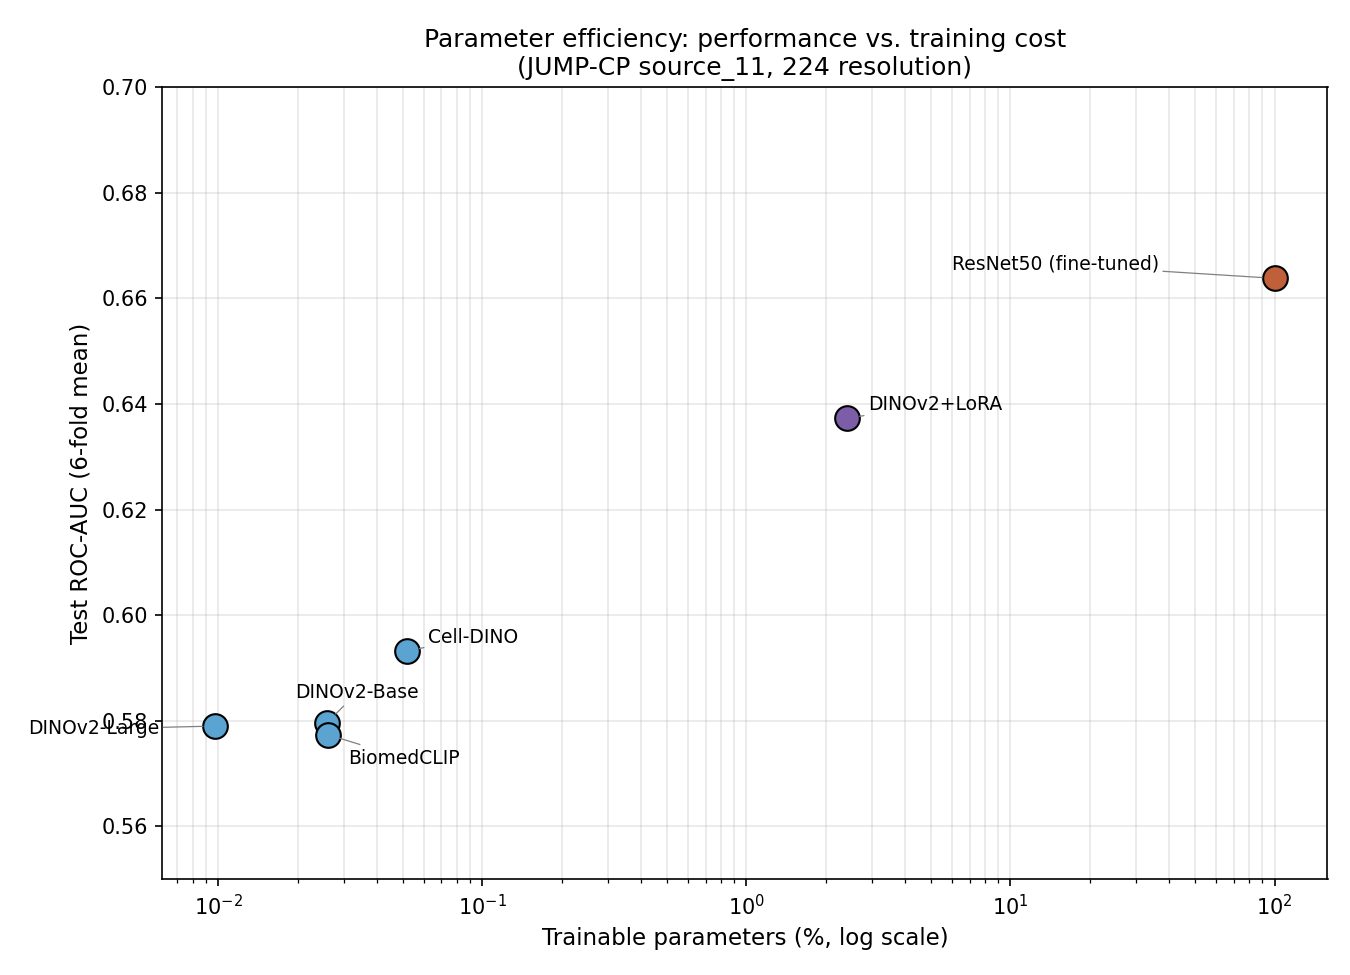
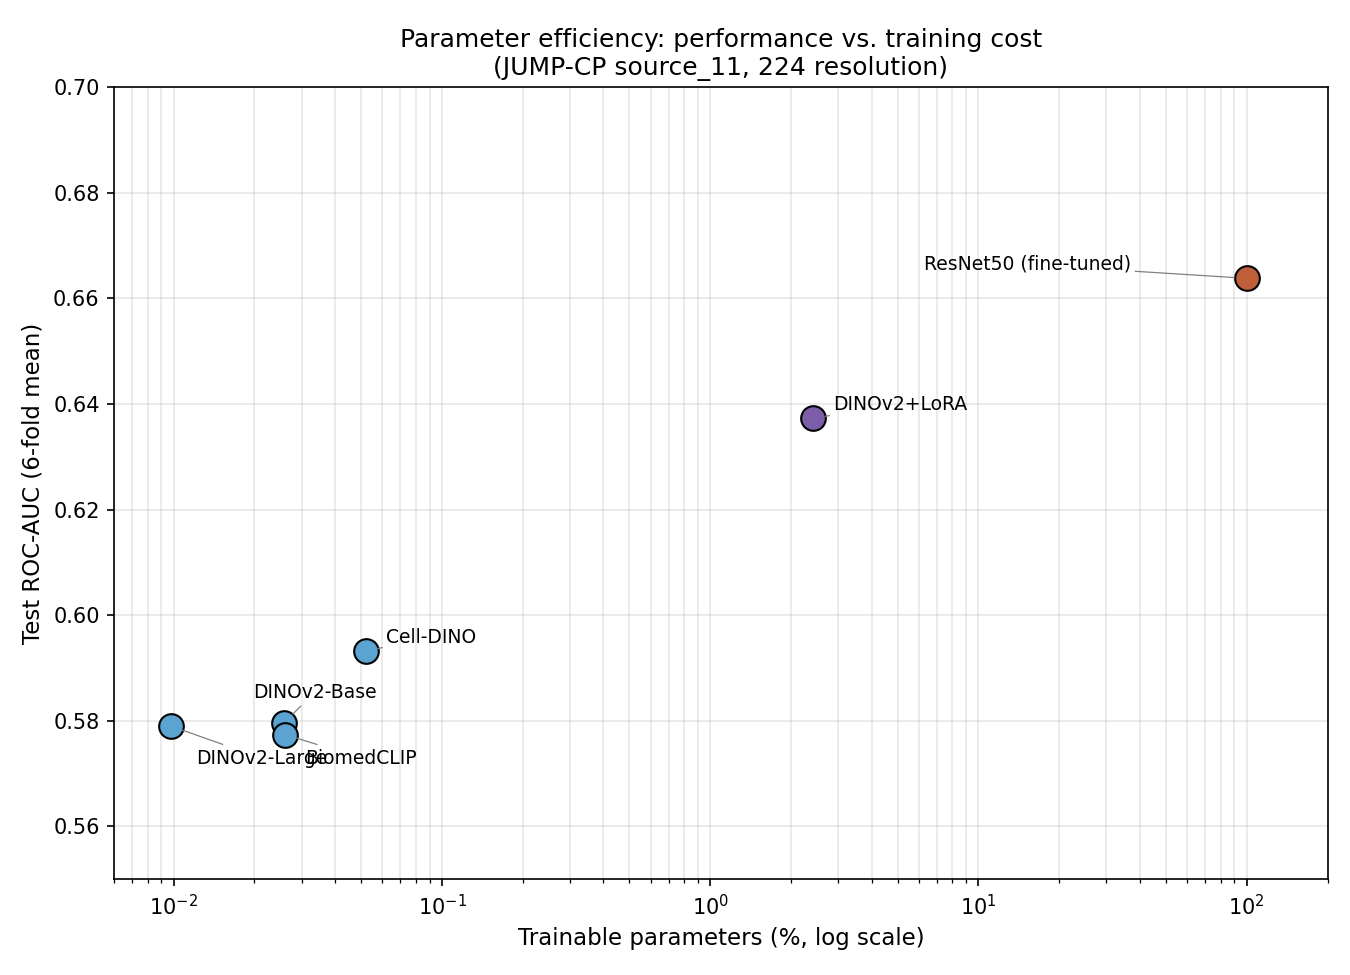
Fix DINOv2-Large label clipping past the plot edge in Fig H Pareto plot

diff --git a/make_pr_calibration_pareto.py b/make_pr_calibration_pareto.py
@@ -143,7 +143,7 @@ def head_params(dim, n_classes=29):
 PARETO = [
     ("Cell-DINO",             0.5932, 100 * head_params(384)  / 21_500_000, "frozen",    (10, 4)),
     ("DINOv2-Base",           0.5796, 100 * head_params(768)  / 86_600_000, "frozen",    (-15, 12)),
-    ("DINOv2-Large",          0.5790, 100 * head_params(1024) / 304_800_000, "frozen",   (-90, -4)),
+    ("DINOv2-Large",          0.5790, 100 * head_params(1024) / 304_800_000, "frozen",   (12, -18)),
     ("BiomedCLIP",            0.5774, 100 * head_params(768)  / 86_000_000, "frozen",    (10, -14)),  # ViT-B/16 vision tower, ~86M
     ("DINOv2+LoRA",           0.6373, 100 * 0.54 / 22.4, "lora",                          (10, 4)),
     ("ResNet50 (fine-tuned)", 0.6638, 100.0, "finetuned",                                 (-155, 4)),
@@ -157,6 +157,7 @@ for label, auc, pct, grp, (dx, dy) in PARETO:
                 fontsize=9, arrowprops=dict(arrowstyle="-", color="grey", lw=0.6,
                 shrinkA=0, shrinkB=6))
 ax.set_xscale("log")
+ax.set_xlim(0.006, 200)
 ax.set_xlabel("Trainable parameters (%, log scale)", fontsize=11)
 ax.set_ylabel("Test ROC-AUC (6-fold mean)", fontsize=11)
 ax.set_title("Parameter efficiency: performance vs. training cost\n(JUMP-CP source_11, 224 resolution)", fontsize=12)
